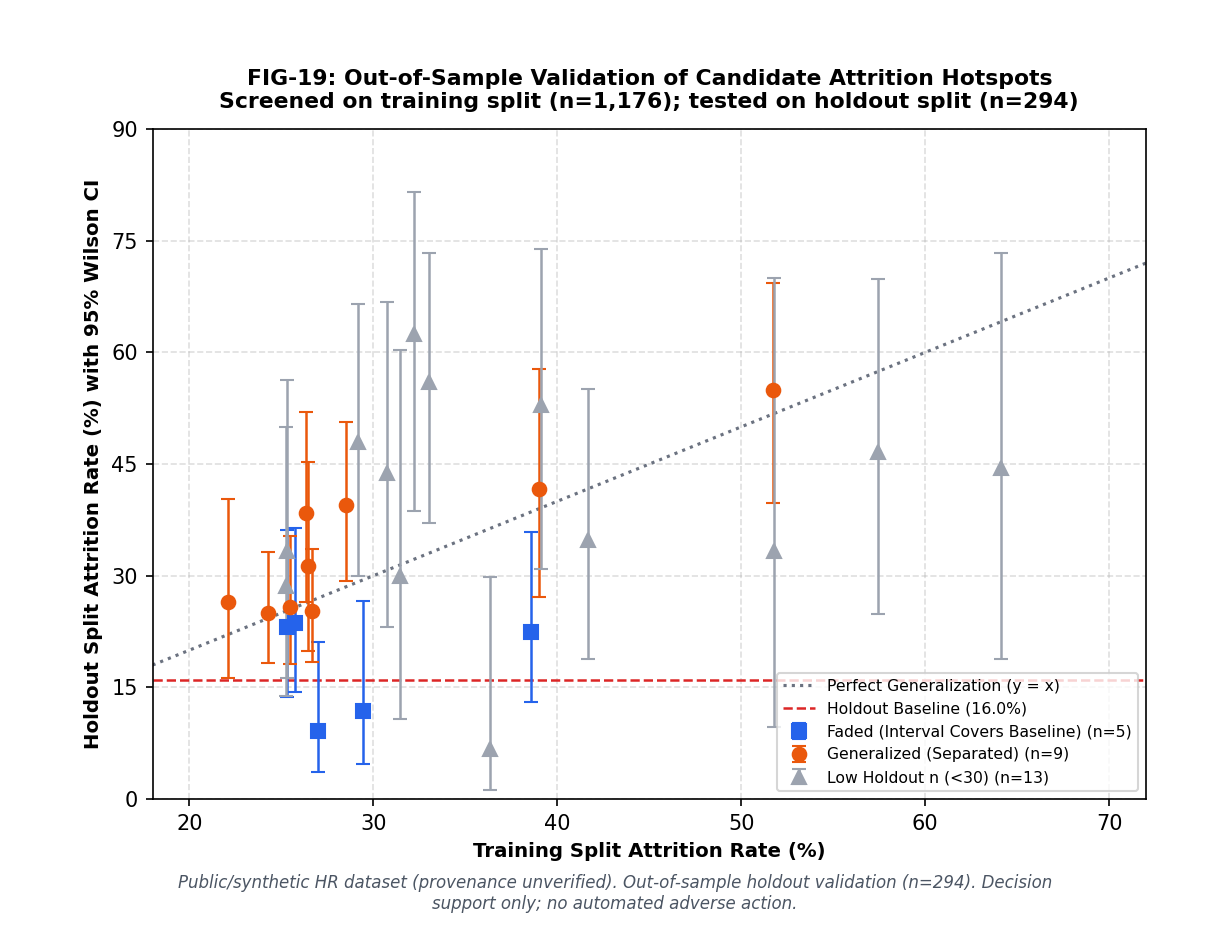
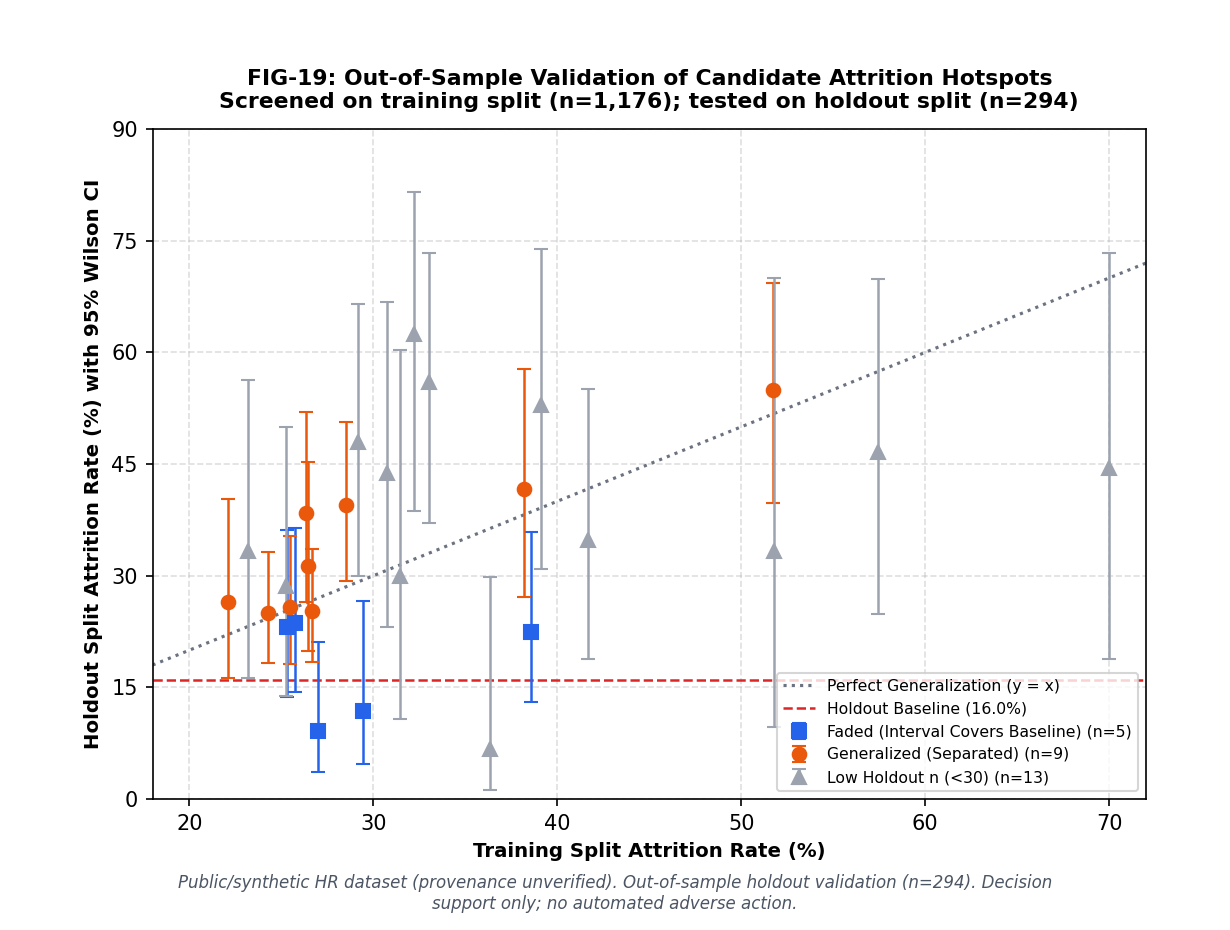
Phase 4 closeout 2: ensure distinct train vs full data columns for optimistic hotspot rows

diff --git a/scripts/run_phase4_models.py b/scripts/run_phase4_models.py
@@ -34,6 +34,7 @@ from workforce_intel.config import (
 from workforce_intel.io import load_processed
 from workforce_intel.modeling import (
     SEED,
+    _count_leavers,
     build_consistency_matrix,
     build_preprocessor,
     compute_bootstrap_metrics,
@@ -46,10 +47,12 @@ from workforce_intel.modeling import (
     evaluate_hotspots_on_holdout,
     evaluate_predictions,
     get_feature_sets,
+    parse_segment_mask,
     screen_hotspots_on_train,
     train_test_split_data,
     tune_hist_gradient_boosting,
     tune_logistic_regression,
+    wilson_interval,
 )
 from workforce_intel.viz_phase4 import (
     plot_fig15_pr_curves,
@@ -205,15 +208,20 @@ def main() -> None:
         for _, r in df_p3_cand.iterrows():
             seg_str = r["subgroup"]
             if seg_str not in train_segments_set:
+                tr_mask = parse_segment_mask(seg_str, train_df)
+                tr_n = int(tr_mask.sum())
+                tr_leavers = _count_leavers(train_df.loc[tr_mask])
+                tr_rate = tr_leavers / tr_n if tr_n > 0 else 0.0
+                tr_low, tr_high = wilson_interval(tr_leavers, tr_n, confidence=0.95)
                 screened_train_hotspots.append(
                     {
                         "segment": seg_str,
                         "source": "Optimistic: holdout was used to select",
-                        "train_n": int(r["n"]),
-                        "train_leavers": int(r["leavers"]),
-                        "train_rate": float(r["attrition_rate_pct"]) / 100.0,
-                        "train_ci_low": float(r["ci95_low_pct"]) / 100.0,
-                        "train_ci_high": float(r["ci95_high_pct"]) / 100.0,
+                        "train_n": tr_n,
+                        "train_leavers": tr_leavers,
+                        "train_rate": tr_rate,
+                        "train_ci_low": tr_low,
+                        "train_ci_high": tr_high,
                         "train_baseline": train_baseline,
                     }
                 )
